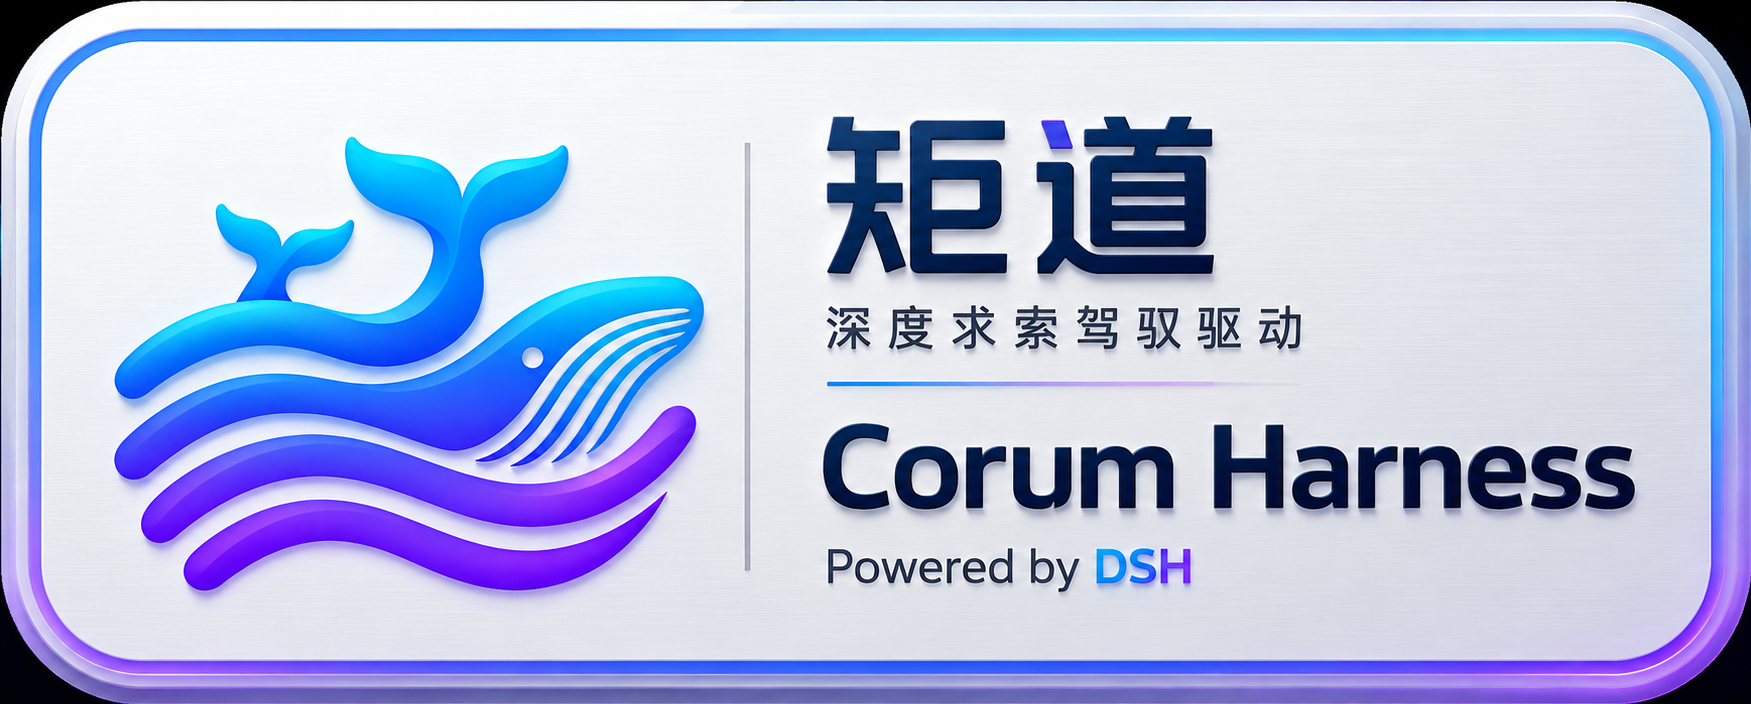
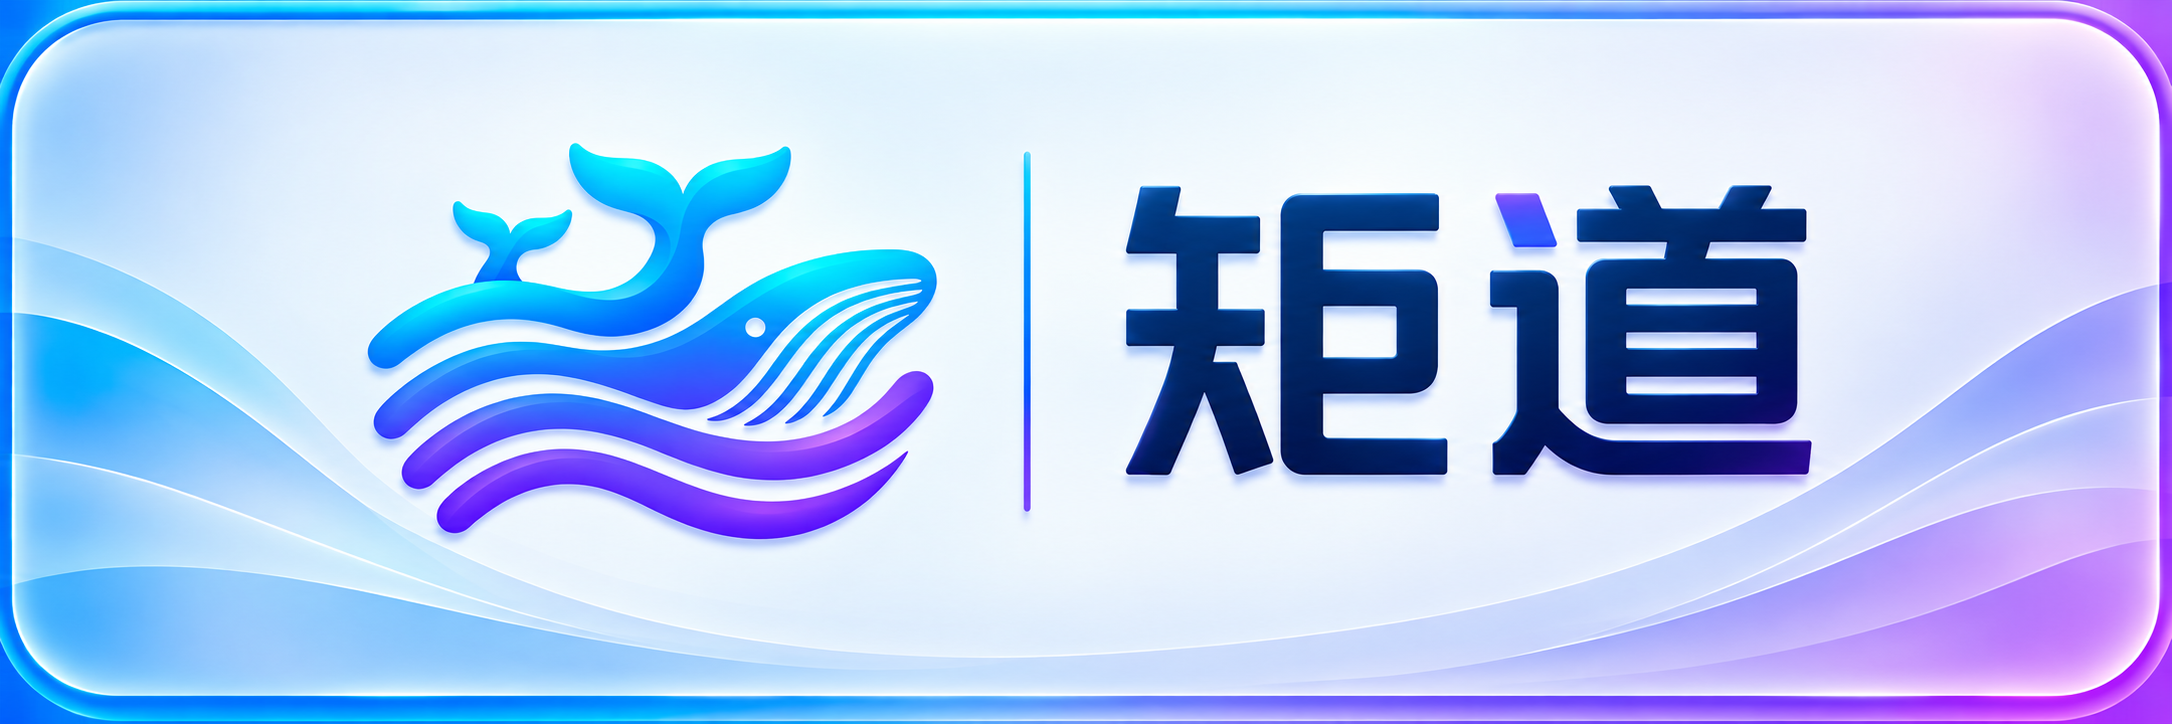
feat(sidebar): 装入 3:1 新品牌卡素材，CSS 改按素材原始比例
用户交付新素材并确认可用。

## 素材事实
- 新素材 2172×724 = 恰好 3:1，无 alpha 通道；四角为蓝紫渐变边框色
  ⇒ 圆角与描边已烘进图里
- 旧素材 1751×704 = 2.487:1（packages/desktop/assets 与 doc/UXDesign/images 两处）

## 交付
1. 素材装入两处（壳经 corumapp://app/assets/brand_card.png 提供；
   dev 走 packages/desktop/assets，打包走 resourcesPath/assets）
2. .brand 比例 6:1 → 素材原始 3:1；object-fit fill → contain
   6:1 是为「旧素材撑满后过高」定的临时比例；新素材按原比例铺满即不再拉伸，
   contain 让日后换其它比例素材也不变形
3. 设计稿同步：brand-card 256×43(6:1) → 256×85(3:1)

## 实测
logo 268×89、ratio 3.00；渲染比例与素材比例偏差 0.000 ⇒ 无拉伸；
naturalWidth>0 已加载；元信息行右端留白 0、「社区版」1 次；
浅色主题同样 3.00（验后已复位「跟随系统」）；
drift 守卫通过、三包 typecheck 0 错、控制台 error 0。

证据：docs/verify/ui-round13/

diff --git a/packages/plugins/ui/corum-ui-base/src/client/sidebar.module.css b/packages/plugins/ui/corum-ui-base/src/client/sidebar.module.css
@@ -50,15 +50,13 @@
 .brand {
   position: relative;
   flex: none;
-  /* 品牌卡**横向撑满侧栏**（用户 2026-10-02：原先固定 168 宽、右侧空 100px），
-     高度按 **6:1** 横幅比例出台。
-     为什么是 6:1 而不是原图的 2.49:1：原图在侧栏实宽下高达 108px（品牌块总高 136px），
-     用户实测判定「拉伸后太大、不适用」。6:1 在侧栏 240→320 全程给出 35~48px 高：
-       侧栏 240（最小）→ 35px ；260（默认）→ 38px ；298（当前）→ 45px ；320 → 48px
-     配合下方 16px 元信息行与 6px 间隙，品牌块总高 73~80px（原 136px），
-     既有品牌存在感又不挤占会话列表。 */
+  /* 品牌卡横向撑满侧栏（用户 2026-10-02：「右侧没有留白」）。
+     高度按 **素材自身比例 3:1** 出台（现用素材 2172×724）；圆角与渐变描边已烘进素材，
+     这里只给 10px 圆角兜底（视觉以素材自带的圆角为准）。
+     为什么不再用 6:1：6:1 是为「旧素材 2.49:1 撑满后过高」定的临时比例；2026-10-03
+     用户交付了 3:1 新素材，故改按素材原始比例铺满，**画面不再被拉伸**。 */
   width: 100%;
-  aspect-ratio: 6 / 1;
+  aspect-ratio: 3 / 1;
   border-radius: 10px;
   overflow: hidden;
   user-select: none;
@@ -68,7 +66,9 @@
   display: block;
   width: 100%;
   height: 100%;
-  object-fit: fill;
+  /* 框已按素材比例 ⇒ contain 与 fill 等效，取 contain：日后换其它比例的素材也不变形，
+     多余的一侧只留极窄空白。 */
+  object-fit: contain;
 }
 /* 品牌卡 + 版本小字行的列容器（PR1：品牌行左侧）。brand-row 的行高由它撑开
    （54 卡 + 一行 11px 小字），右侧档位徽标垂直居中。 */
